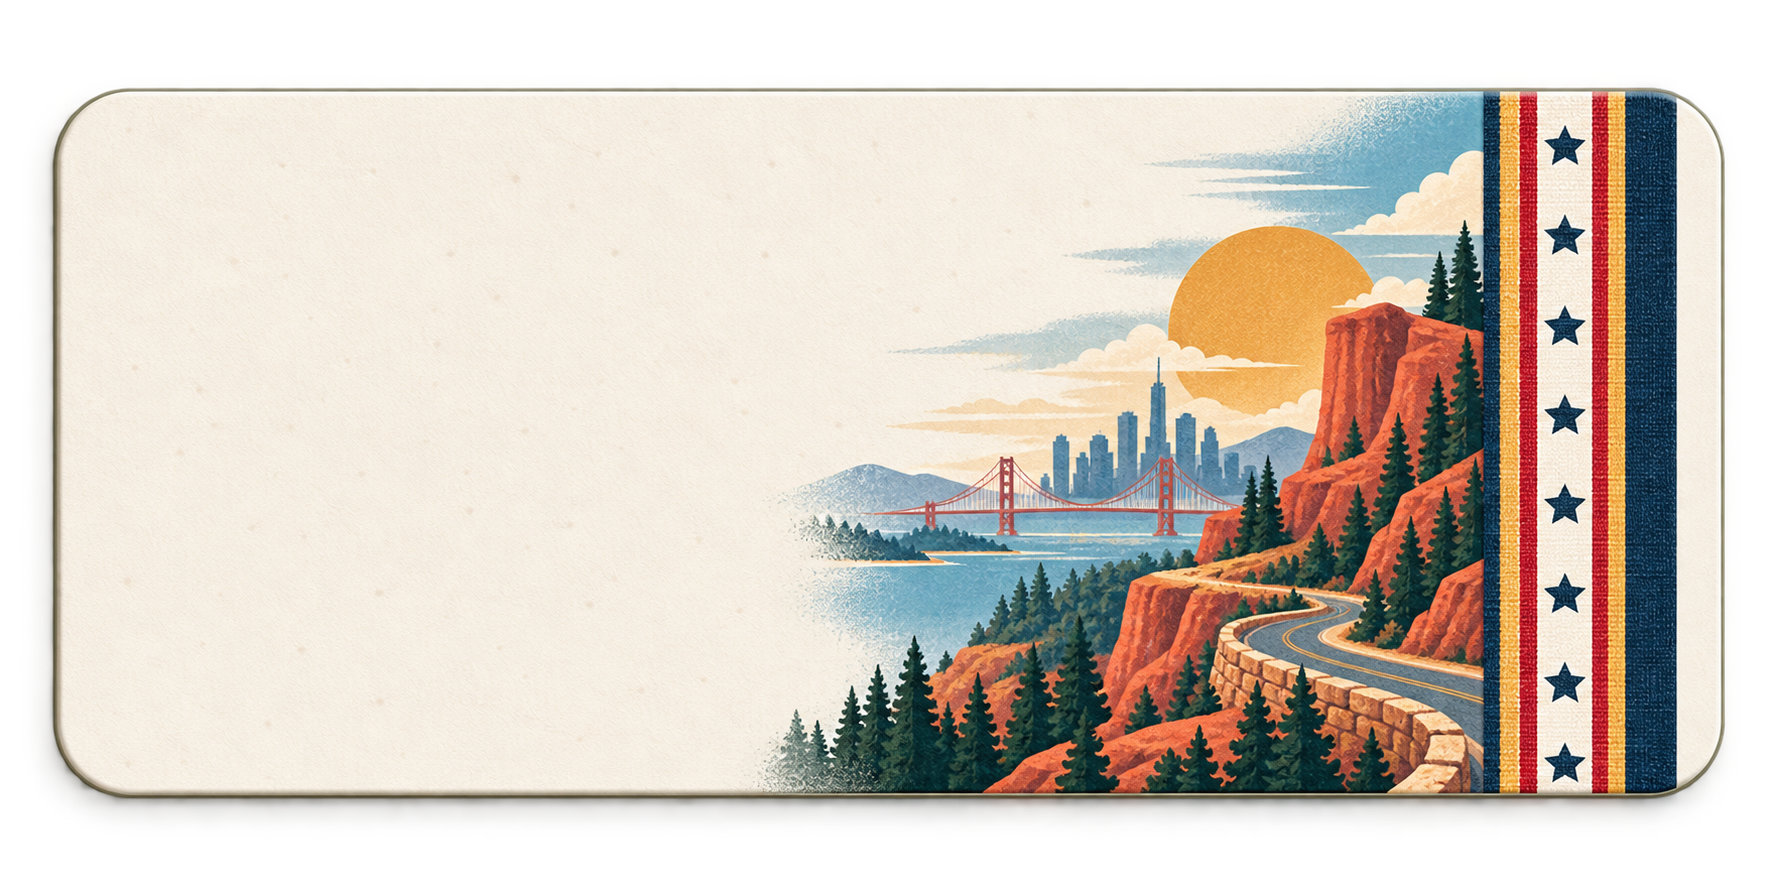
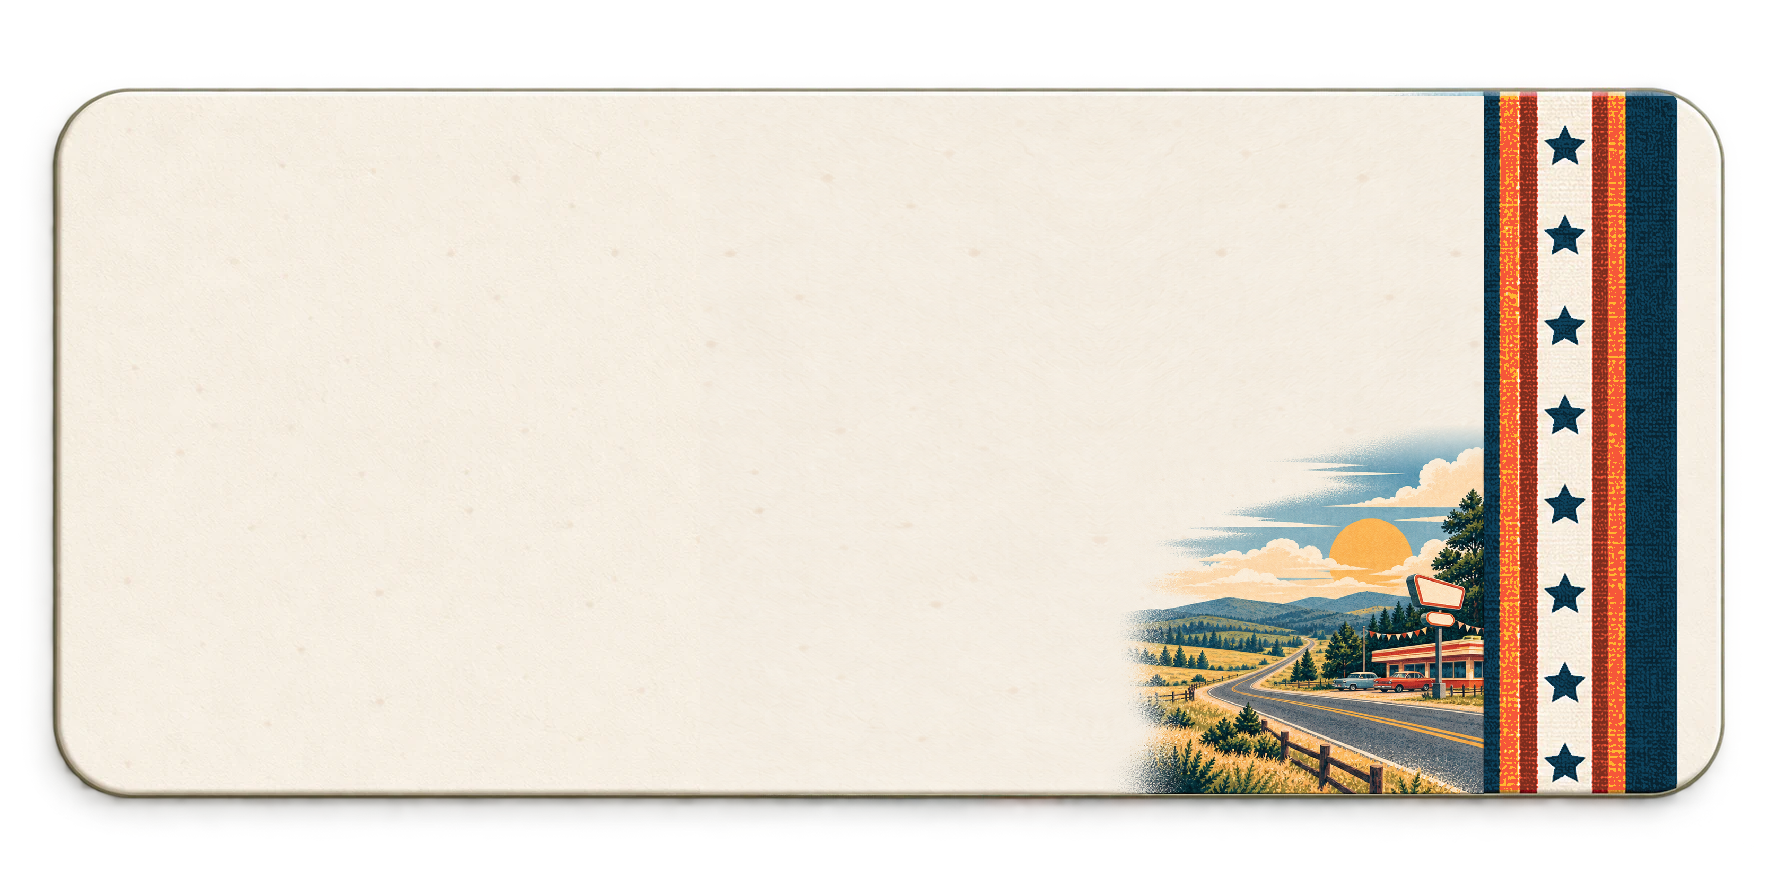
Publish art catalog v96, add the remaining interface art and site copy
- country_us v4 and region_gb_lake_district v2 shells (catalog v96, live).
- Leather, pill, checklist and weather icons, the theme-park castle and
  grill dining art, and a new place-neutral countdown postcard.
- Art requests for the remaining art and the top 21 cities.
- travary.app copy says "Annual Pass".

Changed region(s): [[0.434, 0.0913, 0.9301, 0.9132]]

diff --git a/website/content/apps/travary-vs-tripit.html b/website/content/apps/travary-vs-tripit.html
@@ -23,7 +23,7 @@ answer: TripIt is the better choice if you travel a lot for work: it builds your
     <tr><td><strong>Before the trip</strong></td><td>The itinerary</td><td>A countdown postcard, gaps spotted, a "Before you go" list</td></tr>
     <tr><td><strong>Offline</strong></td><td>Yes</td><td>Yes, on every plan</td></tr>
     <tr><td><strong>Sharing</strong></td><td>Share a trip with others</td><td>Up to six people on a trip, each adding their own bookings (with a pass)</td></tr>
-    <tr><td><strong>Flight alerts</strong></td><td>Yes, with Pro</td><td>Not yet</td></tr>
+    <tr><td><strong>Flight alerts</strong></td><td>Yes, with Pro</td><td>Yes, with a Holiday Pass or the Annual Pass: delays, new times, cancellations, boarding and landing</td></tr>
     <tr><td><strong>Passports</strong></td><td>Document uploads</td><td>Kept on your phone only, behind Face ID, checked against the trip</td></tr>
     <tr><td><strong>Price</strong></td><td>Free; Pro about US$49 a year</td><td>Free; Holiday Pass [[price_pass]] once, or Annual Pass [[price_annual]] a year</td></tr>
   </tbody>
@@ -57,4 +57,4 @@ A: No. You add bookings yourself, or pick a screenshot or PDF of the confirmatio
 Q: Is TripIt free?
 A: TripIt has a free version; TripIt Pro costs about US$49 a year and adds flight alerts and other extras. Check TripIt's site for current prices.
 Q: Does Travary have flight alerts?
-A: Not yet. Travary keeps your flights in the day's plan with their times as printed and the boarding pass ready.
+A: Yes, with a Holiday Pass or the Annual Pass. Travary tells you when a flight in your plan is delayed, gets a new time or is cancelled, and when boarding opens and it has landed. Gate and baggage-belt alerts depend on what the airport publishes, so Travary doesn't promise them.

diff --git a/website/content/apps/itinerary-app-for-families.html b/website/content/apps/itinerary-app-for-families.html
@@ -50,7 +50,7 @@ answer: Travary is an itinerary app built for family holidays. One adult adds th
 </ul>
 
 <h2>What it doesn't do (yet)</h2>
-<p>Travary isn't a research tool: it doesn't suggest attractions or draw your route on a map. It doesn't send flight delay alerts yet. If you want to research a trip with a map, use a planner such as Wanderlog alongside it, then put what you actually book into Travary. More in <a href="/guides/best-itinerary-apps">the best itinerary apps, compared</a>.</p>
+<p>Travary isn't a research tool: it doesn't suggest attractions or draw your route on a map. If you want to research a trip with a map, use a planner such as Wanderlog alongside it, then put what you actually book into Travary. More in <a href="/guides/best-itinerary-apps">the best itinerary apps, compared</a>.</p>
 
 <h2>What it costs a family</h2>
 <p>Everything for your own trips is free: unlimited trips and bookings, Today, the countdown, tickets offline and travel documents. Family sharing needs a pass: a Holiday Pass covers one trip of up to 30 days with a single payment, not a subscription; the Annual Pass covers every trip you organise for a year. A pass on a trip covers everyone on it. Prices are in US dollars; the stores show your local price.</p>

diff --git a/website/content/guides/tripit-alternatives.html b/website/content/guides/tripit-alternatives.html
@@ -41,7 +41,7 @@ answer: The main TripIt alternatives are Wanderlog, for planning and mapping a t
     <tr><td><strong>Built around</strong></td><td>The itinerary</td><td>The map and the plan</td><td>The trip</td><td>Each day of the holiday</td></tr>
     <tr><td><strong>Offline</strong></td><td>Yes</td><td>Pro</td><td>—</td><td>Yes, on every plan</td></tr>
     <tr><td><strong>Android</strong></td><td>Yes</td><td>Yes</td><td>No</td><td>Yes</td></tr>
-    <tr><td><strong>Flight alerts</strong></td><td>Pro</td><td>—</td><td>—</td><td>Not yet</td></tr>
+    <tr><td><strong>Flight alerts</strong></td><td>Pro</td><td>—</td><td>—</td><td>Holiday Pass or Annual Pass</td></tr>
     <tr><td><strong>Sharing a trip</strong></td><td>Yes</td><td>Yes, free</td><td>—</td><td>Holiday Pass or Annual Pass</td></tr>
   </tbody>
 </table></div>

diff --git a/website/content/apps/about.html b/website/content/apps/about.html
@@ -40,7 +40,7 @@ answer: Travary is an itinerary app for iPhone and Android. You add your holiday
 </ul>
 
 <h2>What it doesn't do</h2>
-<p>Travary doesn't sell travel, suggest places to visit, show maps, read your email or send flight alerts (yet). It organises what you've booked.</p>
+<p>Travary doesn't sell travel, suggest places to visit, show maps or read your email. It organises what you've booked, and on a trip with a pass it tells you when a flight changes.</p>
 
 [[waitlist|Be first to try Travary|We'll email you the download link the day Travary lands on the App Store and Google Play.]]
 

diff --git a/docs/art_requests/GPT_TOP_CITIES_2026-10-13.md b/docs/art_requests/GPT_TOP_CITIES_2026-10-13.md
@@ -1,0 +1,91 @@
+# The world's most-visited cities: city art (ChatGPT)
+
+Written 13 October 2026. The aim is a complete look for the 30 cities
+travellers visit most. Nine of them already have it; this asks for the
+other 21, six pictures each.
+
+Places without their own art keep working as they do now. The app tries
+the city's pack, then its region's, then its country's, then the trip's
+look (beach, city, alpine, theme park and so on), then the generic
+pictures. Postcards fall back to the neutral "anywhere" postcard. Nothing
+else is needed for the rest of the world.
+
+## The message to send
+
+> Make city art for my travel app, Travary. The list, sizes and rules are
+> in `docs/art_requests/GPT_TOP_CITIES_2026-10-13.md`: read it first, then
+> work through Wave A, one city at a time. For each city make the six
+> pictures it lists and save them as PNGs in `art_packs/staging/<folder>/`.
+> Tell me when each city is done. Stop and ask if a rule can't be met
+> rather than bending it.
+
+## The six pictures for each city
+
+| File | Size | Rules |
+|---|---|---|
+| `featured_ticket.png` | 1774 × 887, transparent | `art_packs/prompts/city_cards.md`, "Rules for every card", starting from its template in `art_packs/prompts/city_card_references/` |
+| `room_card.png` | 1774 × 887, transparent | as above |
+| `reservation_card.png` | 1983 × 793, transparent | as above |
+| `countdown_postcard.png` | 1122 × 1402 (portrait) | `art_packs/prompts/postcards.md`, countdown postcard |
+| `trip_postcard.png` | 1536 × 1024 (landscape) | `art_packs/prompts/postcards.md`, the Trips companion |
+| `documents_destination_stamp.png` | 1024 × 1280, transparent | `docs/DOCUMENTS_STAMPS_IMAGEGEN_BRIEF.md`, the destination stamp |
+
+Everywhere: no words, letters, numbers, logos or brand names (the app
+prints the place name live), no real people's faces, and no copyrighted
+characters. The six pictures for one city should feel like one set: the
+same light, palette and landmarks. Match the cities already done; look at
+`art_packs/sources/city_fr_paris/common/` and
+`art_packs/staging/new_york/` first.
+
+## Wave A: the biggest gaps (10 cities)
+
+| City | Folder | What to show |
+|---|---|---|
+| London | `london` | Tower Bridge and the Thames, a red double-decker bus, a black cab, Georgian terraces, soft grey-gold light |
+| Tokyo | `tokyo` | Shibuya-style crossing lights, Tokyo Tower in red and white, cherry blossom, a bullet train, neon after dusk |
+| Bangkok | `bangkok` | Temple spires along the river (Wat Arun-like), long-tail boats, tuk-tuks, a floating market, warm evening sun |
+| Rome | `rome` | The Colosseum, umbrella pines, terracotta roofs, a Vespa, a fountain, golden light |
+| Barcelona | `barcelona` | Gaudí-style mosaic curves and spires (no exact copy of the Sagrada Família), the beach, palms, warm stone |
+| Dubai | `dubai` | A needle-like tower skyline, desert dunes at the edge, a dhow on the creek, a sail-shaped hotel silhouette |
+| Istanbul | `istanbul` | Domes and minarets over the Bosphorus, a ferry, gulls, a bridge at sunset, a spice market's colours |
+| Amsterdam | `amsterdam` | Canal houses with gables, bicycles on a bridge, a canal boat, tulips |
+| Hong Kong | `hong_kong` | Victoria Harbour skyline, a red-sailed junk, a Star Ferry-like boat, the Peak's green slopes |
+| Seoul | `seoul` | A palace gate with curved roofs, Namsan tower on its hill, hanok rooftops, autumn maples |
+
+## Wave B (11 cities)
+
+| City | Folder | What to show |
+|---|---|---|
+| Osaka | `osaka` | A castle keep on stone walls, canal-side neon and food stalls, a lantern street |
+| Venice | `venice` | The Grand Canal, gondolas, striped mooring poles, a domed basilica, pastel palazzi |
+| Lisbon | `lisbon` | A yellow tram on a hill, tiled façades, terracotta roofs down to the river, a suspension bridge in the distance |
+| Madrid | `madrid` | A grand plaza with arcades, a royal palace façade, a park lake with rowing boats, warm stone |
+| Prague | `prague` | A stone bridge with statues, a castle on the hill, red roofs, Gothic spires |
+| Cancún | `cancun` | Turquoise sea, white sand, palms, a Maya stepped pyramid in the jungle |
+| Kuala Lumpur | `kuala_lumpur` | Twin towers, a rainforest edge, a market street, a colourful temple stair |
+| Antalya | `antalya` | An old harbour with stone walls, cliffs over a turquoise sea, the Taurus mountains, palms |
+| Phuket | `phuket` | Limestone islands rising from the sea, long-tail boats, a white beach, palms |
+| Milan | `milan` | A Gothic cathedral's spires (not an exact copy), a glass-roofed arcade, a tram, fashion-window colour |
+| Taipei | `taipei` | A bamboo-shaped tower, night market lanterns, green mountains, a temple roof |
+
+## Already covered (nothing to make)
+
+Paris, Kyoto, New York, Orlando and Las Vegas have city packs. Los Angeles
+uses California's, Miami uses Florida's and Bali has its own region pack.
+Singapore is a city-state, so its country pack is its city art.
+
+## After it's drawn (for the developer, not ChatGPT)
+
+- For each city: a new pack, `art_packs/sources/city_<cc>_<city>/`, holding
+  the six PNGs, its country's palette and a `catalog-entry.json` with
+  `{"countryCodes": ["<CC>"], "cities": ["<slug>"]}`. The slug must match
+  the place's slug in `lib/logic/destinations.dart`. Then `webp` and
+  `build` as in `docs/ART_PACKS.md`, one pack at a time, and publish only
+  with the owner's go-ahead.
+- Hong Kong, Malaysia, Czechia and Taiwan have no country pack, so their
+  city packs carry their own postcards (they do anyway). Other places in
+  those countries use the trip's look.
+- Every Wave A city and most of Wave B already have an onboarding
+  background in `assets/onboarding/stages/`. Antalya, Phuket, Milan and
+  Taipei don't: they use their country's (Taiwan uses Anywhere) until
+  backgrounds are made under `docs/ONBOARDING_DESTINATION_ART.md`.

diff --git a/docs/art_requests/GPT_REMAINING_ART_2026-10-12.md b/docs/art_requests/GPT_REMAINING_ART_2026-10-12.md
@@ -1,0 +1,94 @@
+# Remaining artwork for launch (ChatGPT)
+
+Written 12 October 2026. Everything Travary still needs drawn before launch,
+in one request. No new Travi poses or films are needed: his extra moments
+reuse films that already exist.
+
+## The message to send
+
+> Make the remaining artwork for my travel app, Travary. The full list,
+> sizes and rules are in `docs/art_requests/GPT_REMAINING_ART_2026-10-12.md`:
+> read it first, then work through the items in order. Match the existing
+> "travel ephemera" look: printed paper, letterpress ink, warm vintage travel
+> posters. Save every file as a PNG in `art_packs/staging/` under the folder
+> each item names (never over the app's own files). Tell me when each item
+> is done, and stop if a rule can't be met rather than bending it.
+
+## Rules for everything
+
+- PNG, exactly the size given. Transparent background wherever it says so.
+- No words, letters, numbers, logos or brand names anywhere in the art. The
+  app prints all text live.
+- No real trademarks, park characters or recognisable attractions (no
+  castles that look like a real theme park's, no named rides).
+- Keep to the existing palette and finish: look at the files named under
+  "Look at first" before drawing.
+
+## 1. Cards: two places
+
+Follow every rule in `art_packs/prompts/city_cards.md` ("Rules for every
+card"). Start each card from its template in
+`art_packs/prompts/city_card_references/` and change only the picture: the
+outline, notches, perforations, stub, cord, grommet, tag and every blank
+area stay exactly where they are. Ticket and key card 1774 × 887,
+reservation card 1983 × 793, transparent background.
+
+**1a. The Lake District** → `art_packs/staging/lake_district/`
+`featured_ticket.png`, `room_card.png`, `reservation_card.png`.
+The pack currently reuses Great Britain's cards. Picture: fells and a still
+lake (Windermere-like), a wooden launch or rowing boats, dry-stone walls,
+slate cottages, a few Herdwick sheep, soft English light.
+
+**1b. The United States, place-neutral** → `art_packs/staging/united_states/`
+`featured_ticket.png`, `room_card.png`, `reservation_card.png`.
+These replace the country's current cards, which show the Golden Gate Bridge
+and look wrong on an Orlando or New York trip (cities with their own pack
+keep theirs). Picture: Americana that belongs to no one city: an open
+two-lane highway, a roadside diner or motel sign without lettering, wide sky,
+a little flag bunting, a mix of landscape. No recognisable bridge, skyline,
+monument or park.
+
+## 2. Interface pieces → `art_packs/staging/interface/`
+
+Save each under the path given (it mirrors `assets/art/`).
+
+| File | Size | What it is |
+|---|---|---|
+| `common/leather.png` | 1536 × 1024, tiles seamlessly left to right | A strip of dark navy leather with a line of cream stitching 12% from the top. It fills the bottom edge under the home tabs. |
+| `common/pill.png` | 1536 × 512, transparent | A raised, empty cream paper pill with a soft shadow, for the header's date or weather. |
+| `icons/weather_sunny.png` | 1024 × 1024, transparent | A sun, full colour allowed, in the letterpress style of the other icons. Content about 50% of the canvas. |
+| `icons/weather_cloudy.png` | as above | A cloud. |
+| `icons/weather_rain.png` | as above | A cloud with rain. |
+| `icons/weather_snow.png` | as above | A cloud with snowflakes. |
+| `icons/checklist.png` | 1024 × 1024, transparent, one colour (navy ink) | A luggage label or note with two ticked lines, matching `icons/passport.png`. |
+| `dining/themepark_castle_01_vignette.png` | 1024 × 1024, transparent | A fairytale castle dining room, generic (not any real park's castle), for a theme-park restaurant. |
+| `dining/themepark_castle_01_scene.png` | 1536 × 1024 | The same subject as a full scene. |
+| `dining/themepark_grill_01_vignette.png` | 1024 × 1024, transparent | A tropical grill: palms, low sun, waves. Its scene already exists: match it. |
+
+Vignette and scene rules: `docs/ART_BRIEF.md`.
+
+## 3. The neutral countdown postcard → `art_packs/staging/interface/common/`
+
+`countdown_postcard_anywhere.png`, 1122 × 1402. The postcard Today shows
+before a trip whose place has no postcard of its own. The current one is a
+stand-in. Follow the prompt in `art_packs/prompts/postcards.md`: a
+place-neutral travel scene, no landmark that names a country.
+
+## Look at first
+
+- `art_packs/prompts/city_card_references/` and `art_packs/staging/*/`:
+  the card style and the US cities already drawn.
+- `assets/art/icons/` (`passport.png`, `nav_today.png`): the letterpress icons.
+- `assets/art/common/linen.png`, `tab.png`, `tab_selected.png`: the surfaces.
+- `assets/art/dining/`: existing vignettes and scenes.
+- `docs/ART_ASSET_GAPS.md`: where each piece shows in the app.
+
+## After it's drawn (for the developer, not ChatGPT)
+
+- Cards: convert and build as in `docs/ART_PACKS.md` (Lake District into
+  `region_gb_lake_district`, the US cards into `country_us`, bump each
+  pack's version), then publish with the owner's go-ahead.
+- Interface pieces: move into `assets/art/` at the same paths; the app
+  picks them up with no code change (`docs/ART_ASSET_GAPS.md`). Update that
+  file's table.
+- Postcard: convert to WebP as `assets/art/common/countdown_postcard_anywhere.webp`.

diff --git a/website/README.md b/website/README.md
@@ -144,8 +144,11 @@ and never remove it afterwards.
 
 ## Rules for the content
 
-- Never claim a feature the release build doesn't have (no flight alerts,
-  widgets or email forwarding yet).
+- Never claim a feature the release build doesn't have (no widgets or email
+  forwarding yet). Flight alerts are claimed because every build has them on
+  by default: never promise gates or baggage belts, only delays, new times,
+  cancellations, boarding and landing. The plans are called the Annual Pass
+  and the Holiday Pass, never "Travary Plus".
 - Facts about other apps: checked against their own listings, dated, with the
   disclosure that we make Travary.
 - Passport and entry rules: cite the official source and the date checked.

diff --git a/website/STRATEGY.md b/website/STRATEGY.md
@@ -21,8 +21,9 @@ everyone on it."** The things a search visitor can't get elsewhere:
 | 30 destination postcards + 57 onboarding stages + Travi films | Unique, beautiful art nobody else can use: every page looks unlike the SERP |
 
 Not shipped at launch, so the site never claims them: live flight status in
-release builds, flight alerts, widgets / Live Activities, email forwarding,
-share-sheet import.
+release builds, widgets / Live Activities, email forwarding, share-sheet
+import. (Flight alerts now ship at launch, 13 Oct 2026: delays and changes,
+never gates or belts.)
 
 ## 2. What the DreamPrayer site taught us
 

diff --git a/art_packs/prompts/city_cards.md b/art_packs/prompts/city_cards.md
@@ -5,7 +5,7 @@
 Waves 1 and 2 are drawn (`art_packs/staging/<folder>/`, with the generation and
 validation records beside them) and integrated as packs: see "City and region
 cards (United States)" in `docs/ART_PACKS.md`. Built into the catalog, not yet
-published. The Lake District is still to do; San Francisco uses California's.
+published. The Lake District's cards were drawn on 13 October (`art_packs/staging/lake_district/`, pack v2), with place-neutral United States cards (`country_us` v4, no Golden Gate); built, not yet published. San Francisco uses California's.
 
 ## The message to send
 
